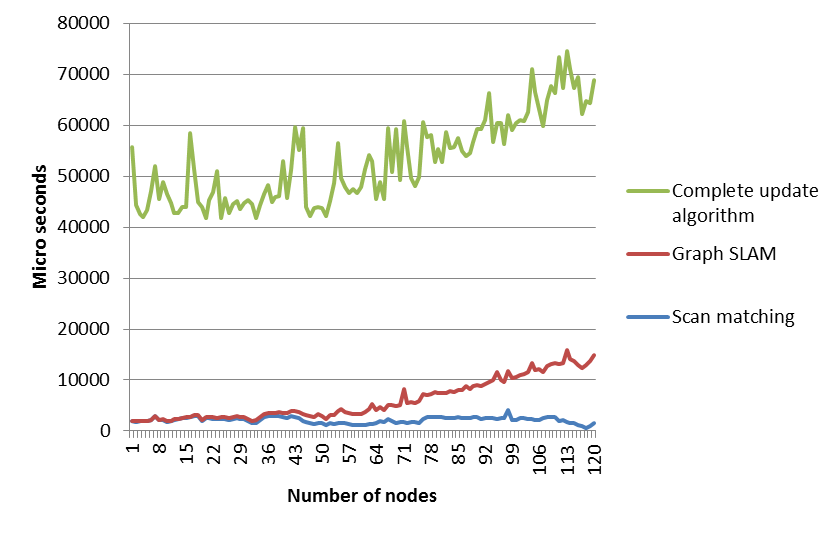
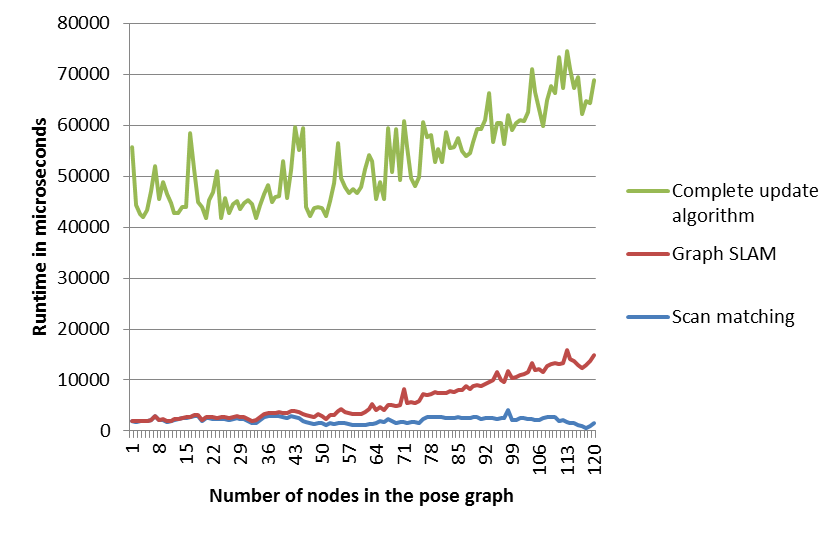
Runtime finished.

Changed region(s): [[0.2476, 0.9006, 0.619, 0.9606], [0.031, 0.2101, 0.0619, 0.6304]]

diff --git a/Article/Article.tex b/Article/Article.tex
@@ -237,7 +237,11 @@ Another aspect is to be added to the evaluation of every frontier point. That is
 	\label{fig:navigation_comparison}
 \end{figure}
 
-\subsection{Runtime}
+\subsection{Runtime analysis}
+The implemented Graph SLAM algorithm has been tested on its feasibility. Navigating the robot manually, the complete test map has been explored, building up a pose graph of 123 nodes and 150 constraints. While doing that, the runtime of the complete update function was measured in microseconds. The update function is executed whenever a new node in the graph is created. It contains the algorithms for scan matching and Graph SLAM correction, which have been measured separately.
+
+Figure \ref{fig:runtime} shows the outcome of this runtime measurement. Naturally the runtime increases with increasing graph size, especially due to the growing matrices in the Graph SLAM algorithm.
+
 \begin{figure}[htbp]
 	\centering
 		\includegraphics[width=0.50\textwidth]{figures/Runtime.png}
@@ -245,6 +249,7 @@ Another aspect is to be added to the evaluation of every frontier point. That is
 	\label{fig:runtime}
 \end{figure}
 
+Even with a graph size of over 100 nodes, the runtime of the function stays in a very feasible range between 60 and 80 milliseconds. The robot can be moved without any delay. Taking only the Graph SLAM update into account, the runtime even stays below 20 milliseconds. In contrast the scan matching is executed outstandingly quickly since it is independent of the size of the pose graph. Most of the time is occupied by updating the occupancy grid because every single grid cell has to redrawn for every pose. In order to compromise this, the update of the complete occupancy grid is only executed every third second and only if a loop closing is detected.
 \section{Discussion}
 \label{sec:disc}
 The Wavefront Frontier detection algorithm \citep{Keidar} succeeds in finding frontiers in a fast and accurate manner.
